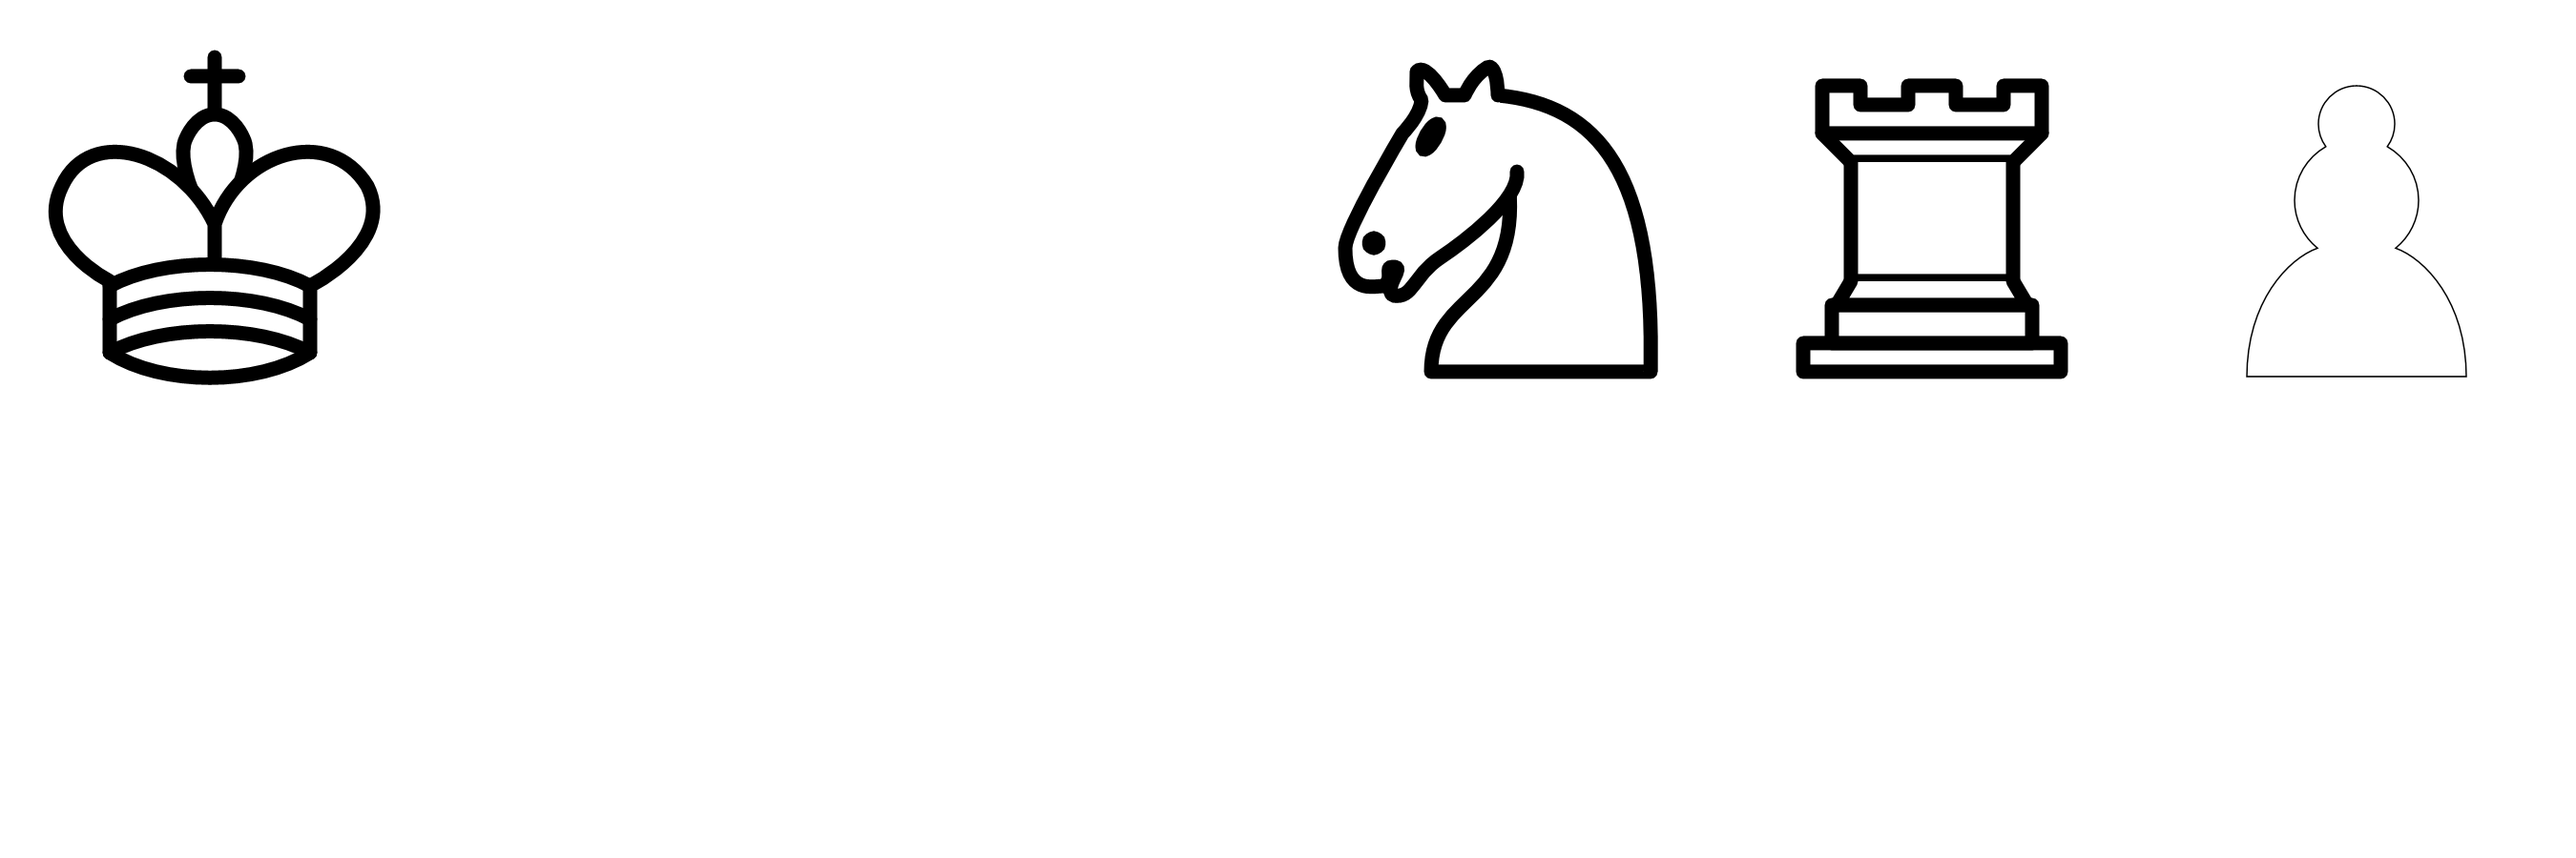
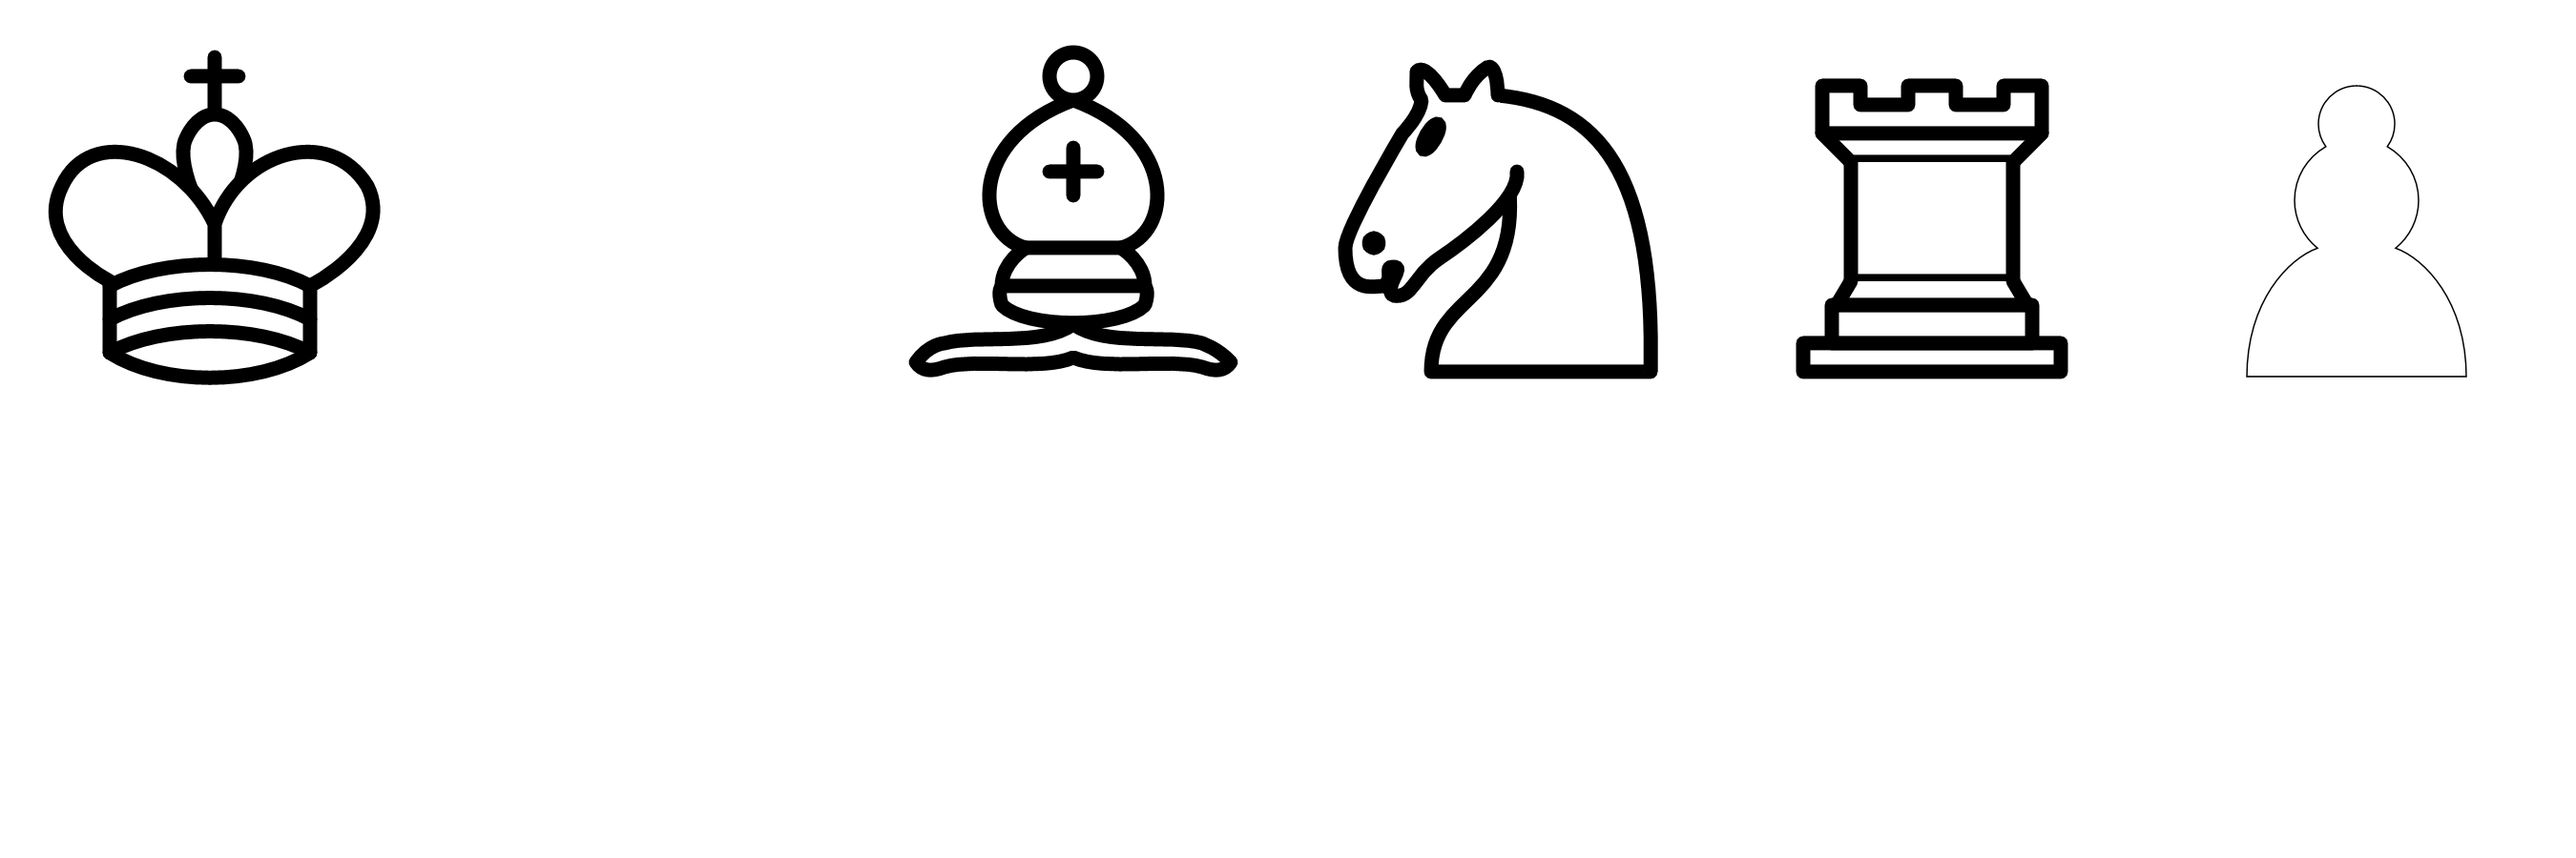
Added bishop

Changed region(s): [[0.3422, 0.0311, 0.4978, 0.4356]]

diff --git a/src/com/sillypantscoder/chess/game/pieces/DiagonalSlidingMoveSet.java b/src/com/sillypantscoder/chess/game/pieces/DiagonalSlidingMoveSet.java
@@ -1,0 +1,76 @@
+package com.sillypantscoder.chess.game.pieces;
+
+import java.util.HashSet;
+import java.util.NoSuchElementException;
+import java.util.Set;
+
+import com.sillypantscoder.chess.game.Cell;
+import com.sillypantscoder.chess.game.Move;
+import com.sillypantscoder.chess.game.MoveSet;
+import com.sillypantscoder.chess.game.Piece;
+
+public class DiagonalSlidingMoveSet extends MoveSet {
+	public int max_length; // -1 for unlimited
+	public DiagonalSlidingMoveSet(int max_length) {
+		this.max_length = max_length;
+	}
+	public DiagonalSlidingMoveSet() {
+		this.max_length = -1;
+	}
+	public Set<Move> getMoves(Piece movingPiece, Cell context, String direction1, boolean reversed1, String direction2, boolean reversed2) {
+		Set<Move> moves = new HashSet<Move>();
+		// Go until we reach a piece or the maximum allowed length
+		Cell currentCell = context;
+		int max_length = this.max_length == -1 ? 1000 : this.max_length;
+		for (int i = 1; i <= max_length; i++) {
+			currentCell = currentCell.go_diagonal(direction1, reversed1, direction2, reversed2);
+			if (currentCell == null) break;
+			// If we hit a piece, allow capture and exit
+			if (currentCell.piece.isPresent()) {
+				Piece p = currentCell.piece.get();
+				Move capture = new Move.CaptureMove(context, movingPiece, currentCell, p);
+				moves.add(capture);
+				break;
+			}
+			// Otherwise, regular move here.
+			Move move = new Move.JumpMove(context, movingPiece, currentCell);
+			moves.add(move);
+		}
+		// finish
+		return moves;
+	}
+	public Set<Move> getMoves(Cell context) {
+		Set<Move> moves = new HashSet<Move>();
+		// Get the moving piece
+		Piece movingPiece = context.piece.orElseThrow(() -> new NoSuchElementException("There needs to be a piece at the location defined by `context` (required in order to construct a Move object)"));
+		// Find all allowed directions
+		Set<String> forwardDirections = context.connections.keySet();
+		for (String dir : forwardDirections) {
+			Set<String> secondaryForwardDirections = context.go(dir, false).connections.keySet();
+			for (String dir2 : secondaryForwardDirections) {
+				if (dir == dir2) continue;
+				moves.addAll(getMoves(movingPiece, context, dir, false, dir2, false));
+			}
+			Set<String> secondaryBackwardDirections = context.go(dir, false).reverseConnections.keySet();
+			for (String dir2 : secondaryBackwardDirections) {
+				if (dir == dir2) continue;
+				moves.addAll(getMoves(movingPiece, context, dir, false, dir2, true));
+			}
+		}
+		Set<String> backwardDirections = context.reverseConnections.keySet();
+		for (String dir : backwardDirections) {
+			Set<String> secondaryForwardDirections = context.go(dir, true).connections.keySet();
+			for (String dir2 : secondaryForwardDirections) {
+				if (dir == dir2) continue;
+				moves.addAll(getMoves(movingPiece, context, dir, true, dir2, false));
+			}
+			Set<String> secondaryBackwardDirections = context.go(dir, true).reverseConnections.keySet();
+			for (String dir2 : secondaryBackwardDirections) {
+				if (dir == dir2) continue;
+				moves.addAll(getMoves(movingPiece, context, dir, true, dir2, true));
+			}
+		}
+		// finish
+		return moves;
+	}
+}

diff --git a/src/com/sillypantscoder/chess/ChessWindow.java b/src/com/sillypantscoder/chess/ChessWindow.java
@@ -9,6 +9,7 @@ import com.sillypantscoder.chess.game.Board;
 import com.sillypantscoder.chess.game.Cell;
 import com.sillypantscoder.chess.game.Move;
 import com.sillypantscoder.chess.game.Piece;
+import com.sillypantscoder.chess.game.pieces.Bishop;
 import com.sillypantscoder.chess.game.pieces.Knight;
 import com.sillypantscoder.chess.game.pieces.Rook;
 import com.sillypantscoder.utils.Utils;
@@ -25,6 +26,8 @@ public class ChessWindow extends Window {
 		this.spritesheet = new Spritesheet("pieces2");
 		this.board.cells.get("1, 1").piece = Optional.of(new Rook());
 		this.board.cells.get("1, 5").piece = Optional.of(new Knight());
+		this.board.cells.get("3, 2").piece = Optional.of(new Bishop());
+		this.board.cells.get("3, 3").piece = Optional.of(new Bishop());
 		this.selectedPiece = Optional.empty();
 	}
 	public void open() {
@@ -107,6 +110,7 @@ public class ChessWindow extends Window {
 			Move m = selection.moves.stream().filter((v) -> v.targetLoc == c).findFirst().orElse(null);
 			if (m != null) {
 				m.execute();
+				selectedPiece = Optional.empty();
 				return;
 			}
 		}

diff --git a/src/com/sillypantscoder/chess/game/Cell.java b/src/com/sillypantscoder/chess/game/Cell.java
@@ -46,4 +46,19 @@ public class Cell implements SelfAwareMap.MapItem {
 		}
 		return targetCell;
 	}
+	public Cell go_diagonal(String direction1, boolean reversed1, String direction2, boolean reversed2) {
+		// Direction 1 first...
+		Cell loc1 = this.go(direction1, reversed1);
+		if (loc1 == null) return null;
+		loc1 = loc1.go(direction2, reversed2);
+		if (loc1 == null) return null;
+		// Direction 2 first...
+		Cell loc2 = this.go(direction2, reversed2);
+		if (loc2 == null) return null;
+		loc2 = loc2.go(direction1, reversed1);
+		if (loc2 == null) return null;
+		// Make sure they are the same
+		if (loc1 != loc2) return null;
+		else return loc1;
+	}
 }

diff --git a/src/com/sillypantscoder/chess/game/pieces/Bishop.java b/src/com/sillypantscoder/chess/game/pieces/Bishop.java
@@ -1,0 +1,16 @@
+package com.sillypantscoder.chess.game.pieces;
+
+import com.sillypantscoder.chess.game.Piece;
+
+public class Bishop extends Piece {
+	public Bishop() {
+		super();
+		this.moveSets.add(new DiagonalSlidingMoveSet());
+	}
+	public String getName() {
+		return "Bishop";
+	}
+	public int[] getIconPos() {
+		return new int[] { 2, 0 };
+	}
+}

diff --git a/compiler.py b/compiler.py
@@ -12,7 +12,7 @@ def checkfolder(folder: str):
 		if os.path.isdir(newname):
 			checkfolder(newname)
 		else:
-			if newname.split(".")[-1] in ["java", "html", "css", "js", "xml", "ttf"]:
+			if newname.split(".")[-1] in ["java", "html", "css", "js", "xml", "ttf", "png"]:
 				files.append(newname)
 checkfolder("src")
 
